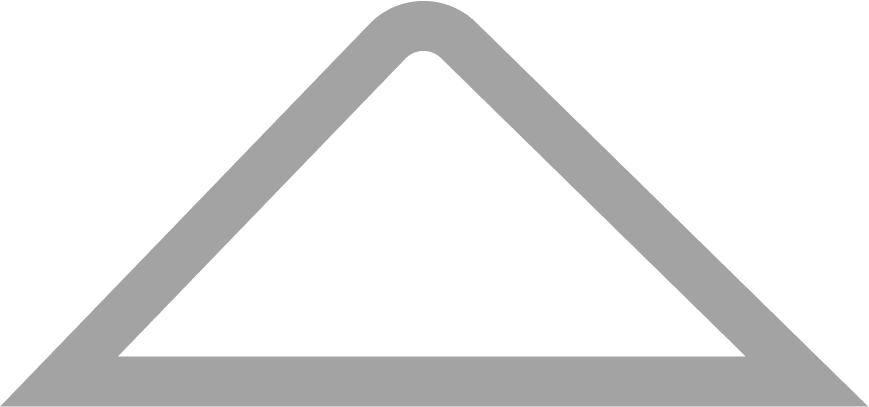
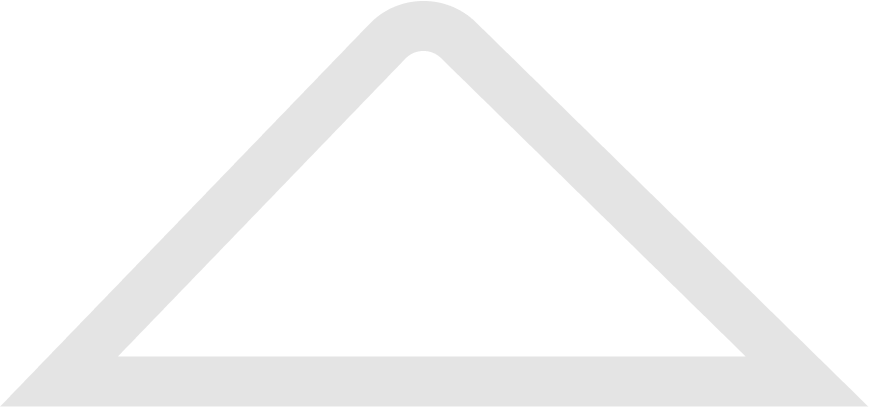
Add Actions component + minor style changes

Changed region(s): [[0.0, 0.0, 1.0, 1.0]]

diff --git a/client/src/components/common/Actions/Actions.scss b/client/src/components/common/Actions/Actions.scss
@@ -1,0 +1,57 @@
+@import '../../../variables';
+
+.actions__container {
+    position: relative;
+
+    .actions__icon {
+        cursor: pointer;
+    }
+
+    .actions__wrapper {
+        position: absolute;
+        top: 0;
+        left: 5px;
+
+        .actions__wrapper__internal {
+            position: relative;
+
+            .arrow {
+                position: absolute;
+                top: 4px;
+                left: -13px;
+                background-image: url(../../../static/dialog-arrow-right.png);
+                background-position: center;
+                background-repeat: no-repeat;
+                background-size: cover;
+                width: .6em;
+                height: 1em;
+                z-index: 9;
+            }
+
+            .actions__modal {
+                position: absolute;
+                top: -35px;
+                left: -120px;
+                display: flex;
+                flex-direction: column;
+                align-items: center;
+                z-index: 10;
+                background-color: $white;
+                border: 1px solid $very-light-grey;
+                border-radius: 20px;
+                box-shadow: -1px 1px 5px 1px $very-light-grey;
+
+                span {
+                    padding: 10px 25px;
+                    margin: 0 5px;
+                    cursor: pointer;
+                    font-size: $font-regular;
+                    font-weight: $thick;
+                }
+                span:first-of-type {
+                    border-bottom: 1px solid $very-light-grey;
+                }
+            }
+        }
+    }
+}

diff --git a/client/src/components/common/TopBar/Profile/Profile.tsx b/client/src/components/common/TopBar/Profile/Profile.tsx
@@ -1,8 +1,9 @@
-import React from 'react';
+import React, { MouseEvent } from 'react';
 import './Profile.scss';
 
+import Actions from '../../Actions/Actions';
+
 import QuestionAnswerIcon from '@material-ui/icons/QuestionAnswer';
-import MoreVertIcon from '@material-ui/icons/MoreVert';
 import Switch from '@material-ui/core/Switch';
 
 import { withStyles } from '@material-ui/core/styles';
@@ -63,6 +64,10 @@ class Profile extends React.Component<ProfileProps, ProfileState> {
       updateCurrentUserAvailability(!this.state.isChecked);
     };
 
+    const openEditProfileModal = (e: MouseEvent): void => {};
+
+    const openDeleteProfileModal = (e: MouseEvent): void => {};
+
     return (
       <div className="profile__container">
         <div id="profile__container__internal">
@@ -80,9 +85,13 @@ class Profile extends React.Component<ProfileProps, ProfileState> {
                 <h5 id="profile__full-name">
                   {firstName} {lastName}
                 </h5>
-                <div id="profile__actions">
-                  <MoreVertIcon />
-                </div>
+
+                <Actions
+                  actions={[
+                    { name: 'Edit', function: openEditProfileModal },
+                    { name: 'Delete', function: openDeleteProfileModal },
+                  ]}
+                />
               </div>
               <div id="profile__availability">
                 <span>Buddy availability:</span>

diff --git a/client/src/components/common/Actions/Actions.tsx b/client/src/components/common/Actions/Actions.tsx
@@ -1,0 +1,60 @@
+import React, { MouseEvent } from 'react';
+import './Actions.scss';
+
+import MoreVertIcon from '@material-ui/icons/MoreVert';
+
+interface ActionsState {
+  isOpen: boolean;
+}
+
+interface IAction {
+  name: string;
+  function: any;
+}
+
+interface ActionsProps {
+  actions: IAction[];
+}
+
+class Actions extends React.Component<ActionsProps, ActionsState> {
+  constructor(props: any) {
+    super(props);
+
+    this.state = {
+      isOpen: false,
+    };
+  }
+
+  render() {
+    const toggleActions = (): void => {
+      this.setState({ isOpen: !this.state.isOpen });
+    };
+
+    return (
+      <div className="actions__container">
+        <div className="actions__icon" onClick={() => toggleActions()}>
+          <MoreVertIcon />
+        </div>
+
+        {this.state.isOpen ? (
+          <div className="actions__wrapper">
+            <div className="actions__wrapper__internal">
+              <div className="arrow"></div>
+              <div className="actions__modal">
+                {this.props.actions.map((action, i) => {
+                  return (
+                    <span onClick={action.function} key={i}>
+                      {action.name}
+                    </span>
+                  );
+                })}
+              </div>
+            </div>
+          </div>
+        ) : null}
+      </div>
+    );
+  }
+}
+
+export default Actions;

diff --git a/client/src/components/Dashboard/Tasks/Tasks.scss b/client/src/components/Dashboard/Tasks/Tasks.scss
@@ -40,7 +40,7 @@
                 justify-content: space-between;
                 padding: 10px 20px;
                 background-color: $white;
-                border: 1px solid $primary-grey;
+                border: 1px solid $very-light-grey;
                 border-radius: 10px;
                 z-index: 2;
 
@@ -102,7 +102,7 @@
                 padding: 15px 20px 10px;
                 margin-top: -1px;
                 background-color: lighten($primary-grey, 32%);
-                border: 1px solid $primary-grey;
+                border: 1px solid $very-light-grey;
                 border-radius: 10px;
                 border-top-left-radius: 0;
                 border-top-right-radius: 0;

diff --git a/client/src/components/common/TopBar/Profile/Profile.scss b/client/src/components/common/TopBar/Profile/Profile.scss
@@ -7,7 +7,8 @@
     padding: 8px;
     z-index: 10000;
     background-color: $white;
-    border: 1px solid $primary-grey;
+    border: 1px solid $very-light-grey;
+    box-shadow: 0px 1px 5px 1px $very-light-grey;
     border-radius: 32px;
 
     #profile__container__internal {
@@ -30,7 +31,8 @@
             position: relative;
             height: 40em;
             width: 15em;
-            border: 1px solid $primary-grey;
+            border: 1px solid $very-light-grey;
+            box-shadow: 0px 1px 2px 0.5px $very-light-grey;
             border-radius: 25px;
             
             #profile__card__photo__container {

diff --git a/client/src/components/common/TopBar/TopBar.scss b/client/src/components/common/TopBar/TopBar.scss
@@ -42,10 +42,10 @@
             display: flex;
             flex-direction: row;
             align-items: center;
-            margin-right: 20px;
+            margin-right: 10px;
 
             #topbar__img__no-picture {
-                color: $primary-grey;
+                color: $very-light-grey;
             }
         }
 

diff --git a/client/src/components/common/Member/Member.scss b/client/src/components/common/Member/Member.scss
@@ -28,7 +28,8 @@
 
 
 .member__card {
-    border: 1px solid $primary-grey;
+    border: 1px solid $very-light-grey;
+    box-shadow: 0px 1px 4px 1px $very-light-grey;
     border-radius: 32px;
     height: 25em;
 

diff --git a/client/src/_variables.scss b/client/src/_variables.scss
@@ -6,6 +6,7 @@ $text: #011117;
 $white: #FFFFFF;
 $primary-grey: #A3A3A3;
 $lighter-grey: #C4C4C4;
+$very-light-grey: #E4E4E4;
 $orange-accent: #F9AB55;
 $lighter-orange: #FBCD99;
 
